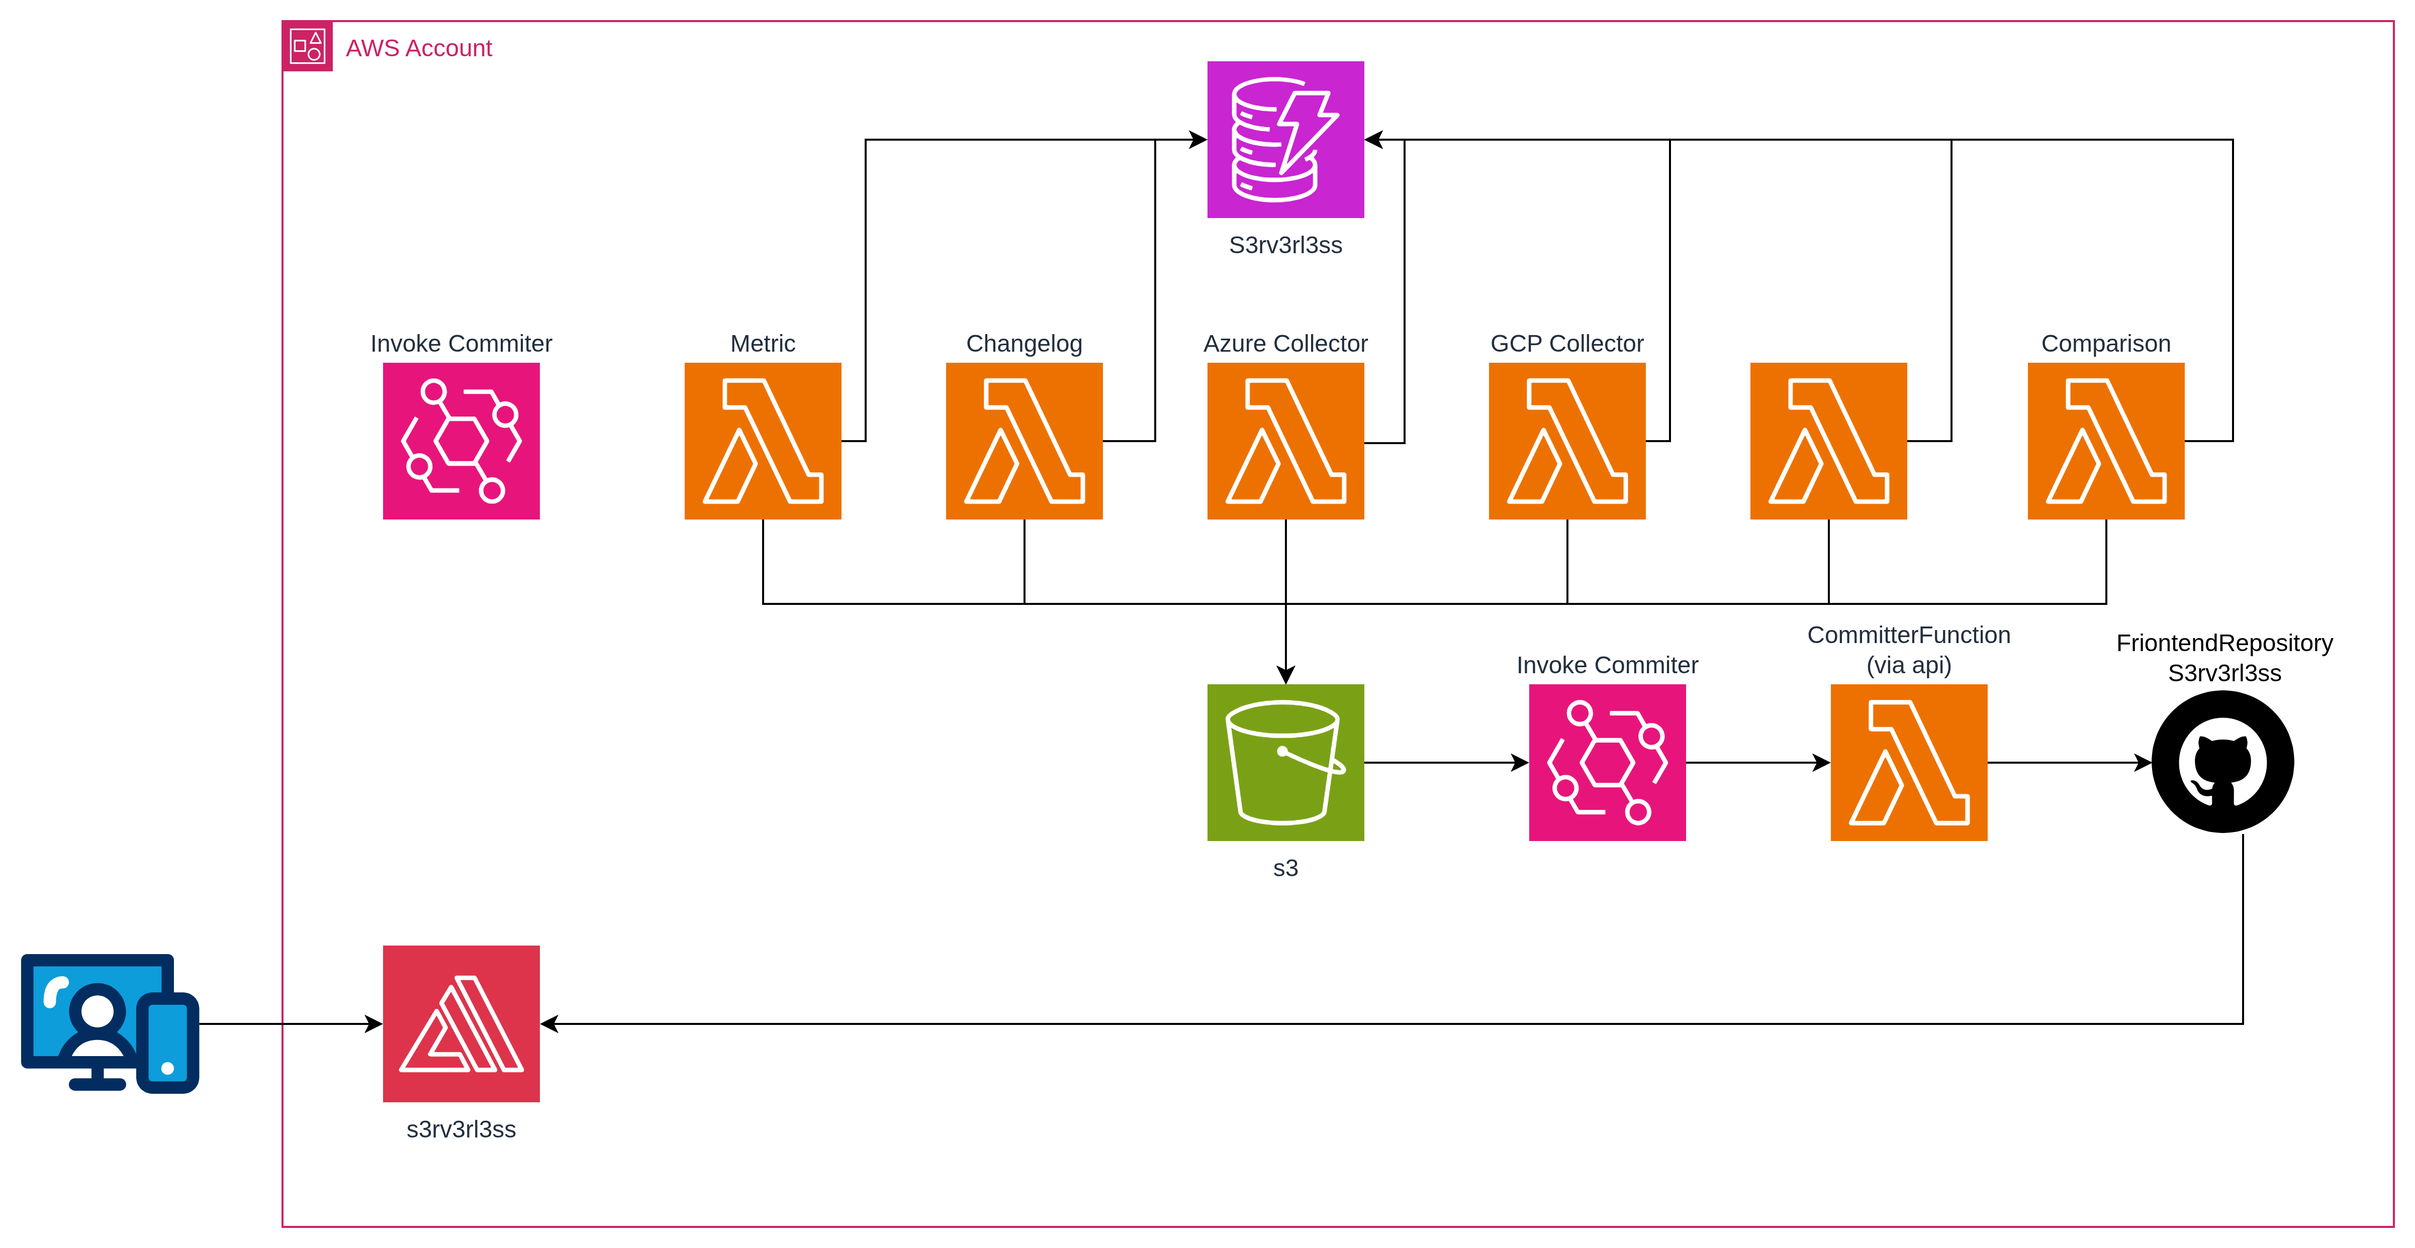
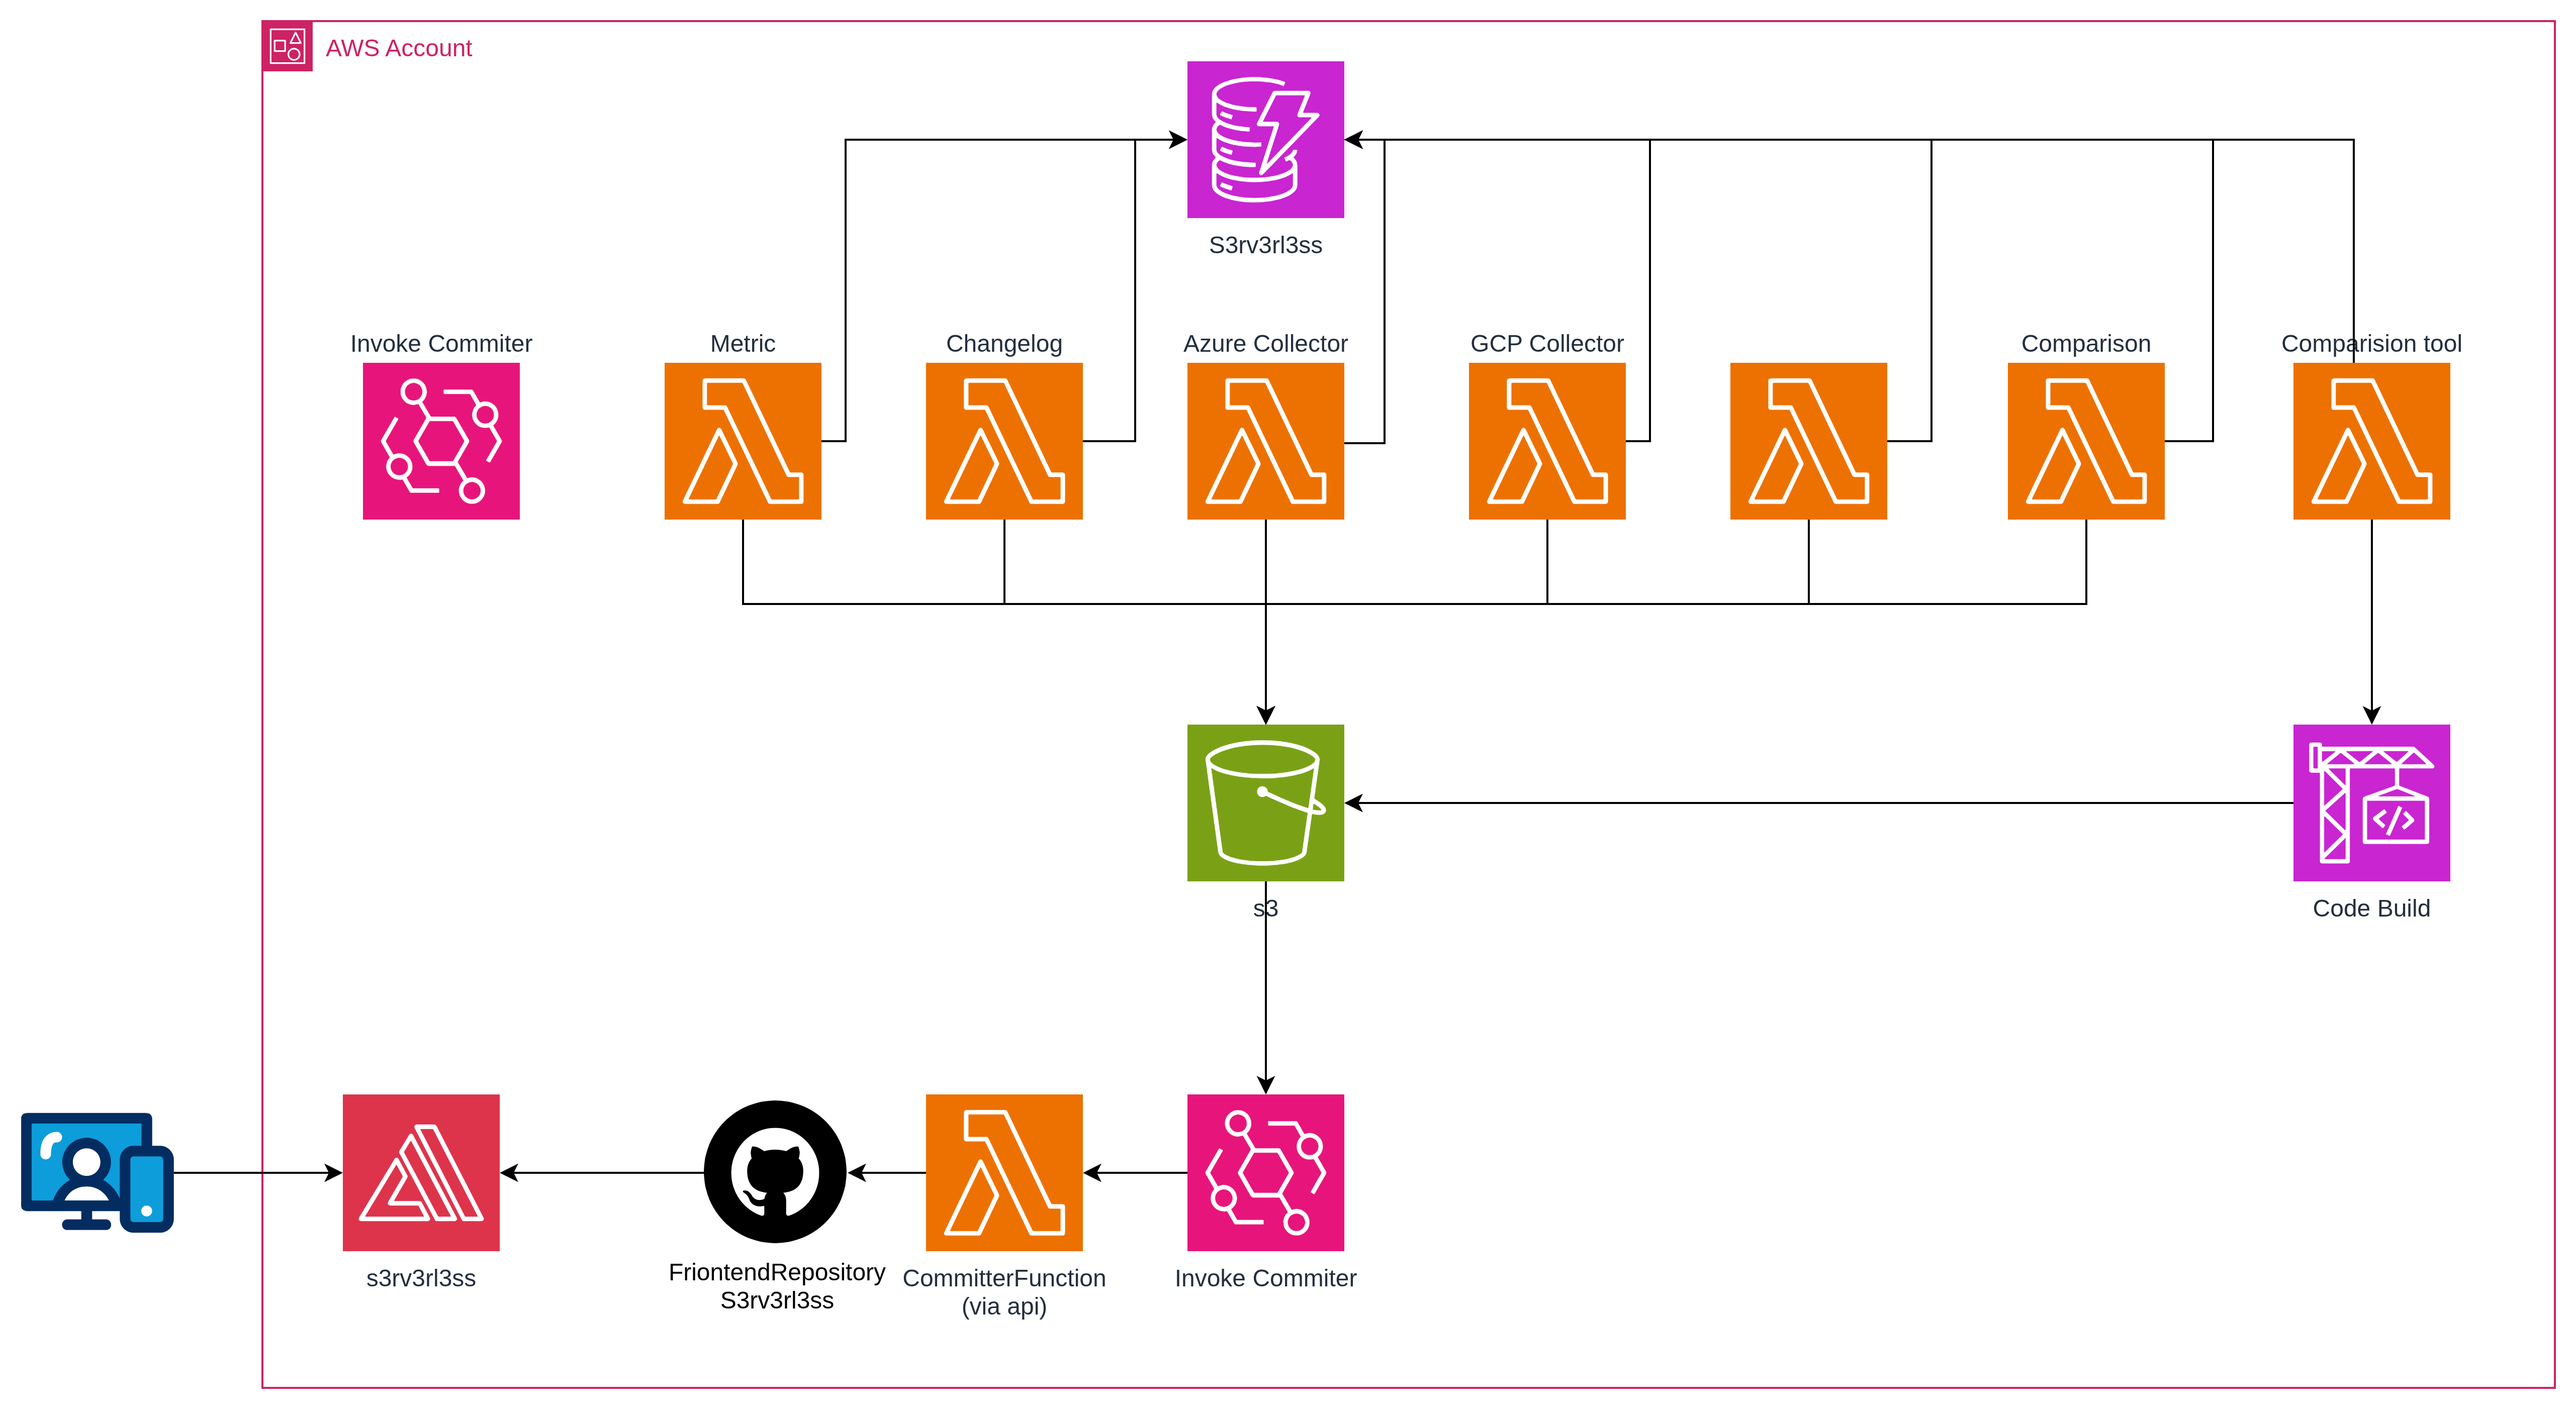
feat: add codebuild for docker validation

diff --git a/src/tools-collector/handler.py b/src/tools-collector/handler.py
@@ -18,9 +18,11 @@ from parsers import floci as floci_parser
 from parsers import robotocore as robotocore_parser
 
 s3 = boto3.client("s3")
+codebuild = boto3.client("codebuild")
 
 BUCKET = os.environ["BUCKET_NAME"]
 S3_KEY = os.environ.get("S3_KEY", "data/tools.json")
+DOCKER_PROJECT = os.environ.get("DOCKER_PROJECT_NAME", "")
 
 # Load static tool definitions
 TOOLS = json.loads(Path(__file__).with_name("tools.json").read_text())
@@ -66,9 +68,36 @@ def _github_stars(repo):
         return 0
 
 
+def _start_docker_build():
+    """Start CodeBuild project to measure Docker images. Non-blocking."""
+    if not DOCKER_PROJECT:
+        return
+    try:
+        codebuild.start_build(projectName=DOCKER_PROJECT)
+        print(f"[tools] Started CodeBuild project: {DOCKER_PROJECT}")
+    except Exception as e:
+        print(f"[tools] Error starting CodeBuild: {e}")
+
+
+def _get_docker_results():
+    """Read previous Docker measurement results from S3."""
+    try:
+        resp = s3.get_object(Bucket=BUCKET, Key="data/tools-docker.json")
+        data = json.loads(resp["Body"].read().decode("utf-8"))
+        return {item["id"]: item for item in data}
+    except Exception:
+        return {}
+
+
 def lambda_handler(event, context):
     today = date.today().isoformat()
     output_tools = []
+
+    # Start Docker measurements (async, results available next run)
+    _start_docker_build()
+
+    # Read previous Docker results if available
+    docker_results = _get_docker_results()
 
     for tool in TOOLS:
         repo = tool["repo"]
@@ -87,6 +116,16 @@ def lambda_handler(event, context):
         else:
             print(f"[tools] {tool['name']}: using static fallback ({len(services)})")
 
+        # Merge Docker results if available
+        docker_data = docker_results.get(tool_id, {})
+        performance = tool.get("performance", {})
+        if docker_data:
+            performance = {
+                "startupTime": f"{docker_data.get('startupMs', 0)}ms",
+                "memoryIdle": docker_data.get("memoryIdle", performance.get("memoryIdle", "")),
+                "imageSize": docker_data.get("imageSize", performance.get("imageSize", "")),
+            }
+
         entry = {
             "id": tool_id,
             "name": tool["name"],
@@ -98,7 +137,7 @@ def lambda_handler(event, context):
             "technology": tool["technology"],
             "license": tool["license"],
             "price": tool["price"],
-            "performance": tool["performance"],
+            "performance": performance,
             "services": services,
             "paidServices": tool.get("paidServices", []),
         }

diff --git a/src/tools-collector/parsers/ministack.py b/src/tools-collector/parsers/ministack.py
@@ -1,22 +1,34 @@
-"""Parse MiniStack services from ministack.org (JSON-LD featureList)."""
+"""Parse MiniStack services from GitHub README (bold service names in tables)."""
 
 import re
 from urllib.request import urlopen, Request
 from urllib.error import HTTPError
 
-URL = "https://ministack.org/"
+URL = "https://raw.githubusercontent.com/ministackorg/ministack/main/README.md"
+
+# Sub-features of CloudFormation, not standalone services
+EXCLUDE = {
+    "Stack Operations", "Change Sets", "Exports", "Template Formats",
+    "Intrinsic Functions", "Pseudo-Parameters", "Parameters",
+    "Conditions", "Rollback", "Async Status",
+}
 
 
 def fetch_services():
-    """Extract service names from MiniStack JSON-LD featureList."""
+    """Extract bold service names from Supported Services tables in README."""
     try:
         req = Request(URL, headers={"User-Agent": "s3rv3rl3ss-bot"})
         resp = urlopen(req, timeout=15)
-        html = resp.read().decode("utf-8")
-        match = re.search(r'"featureList"[^"]*"([^"]+)"', html)
-        if match:
-            services = [s.strip() for s in match.group(1).split(",") if s.strip()]
-            print(f"[ministack] Scraped {len(services)} services")
+        content = resp.read().decode("utf-8")
+        idx = content.find("## Supported Services")
+        if idx == -1:
+            return None
+        end = content.find("\n## ", idx + 10)
+        section = content[idx:end] if end != -1 else content[idx:]
+        rows = re.findall(r'^\|\s*\*\*([^*]+)\*\*', section, re.MULTILINE)
+        services = [r.strip() for r in rows if r.strip() and r.strip() not in EXCLUDE]
+        if services:
+            print(f"[ministack] Scraped {len(services)} services from README")
             return services
     except (HTTPError, Exception) as e:
         print(f"[ministack] Error scraping services: {e}")

diff --git a/src/metrics/handler.py b/src/metrics/handler.py
@@ -128,16 +128,22 @@ def _calculate_cost(metrics_today, metrics_month):
     lambda_free_tier = 400_000
     lambda_effective = max(0, gb_seconds_month - lambda_free_tier) * PRICE_PER_GB_SECOND
 
+    # CodeBuild cost: BUILD_GENERAL1_MEDIUM = $0.005/min, ~2 min/day
+    codebuild_cost = 0.005 * 2 * 30  # ~$0.30/month
+
+    total = 0.40 + lambda_effective + codebuild_cost
+
     return {
         "monthly": {
-            "total": f"${0.40 + lambda_effective:.2f}",
+            "total": f"${total:.2f}",
             "lambda": f"${lambda_effective:.4f}" if lambda_effective > 0 else "$0.00 (free tier)",
             "dynamodb": "$0.00 (free tier)",
             "s3": "$0.00 (free tier)",
             "secretsManager": "$0.40",
             "eventbridge": "$0.00 (free tier)",
+            "codebuild": f"~${codebuild_cost:.2f}",
         },
-        "note": "Only Secrets Manager has cost outside free tier",
+        "note": "Secrets Manager + CodeBuild outside free tier",
     }
 
 
